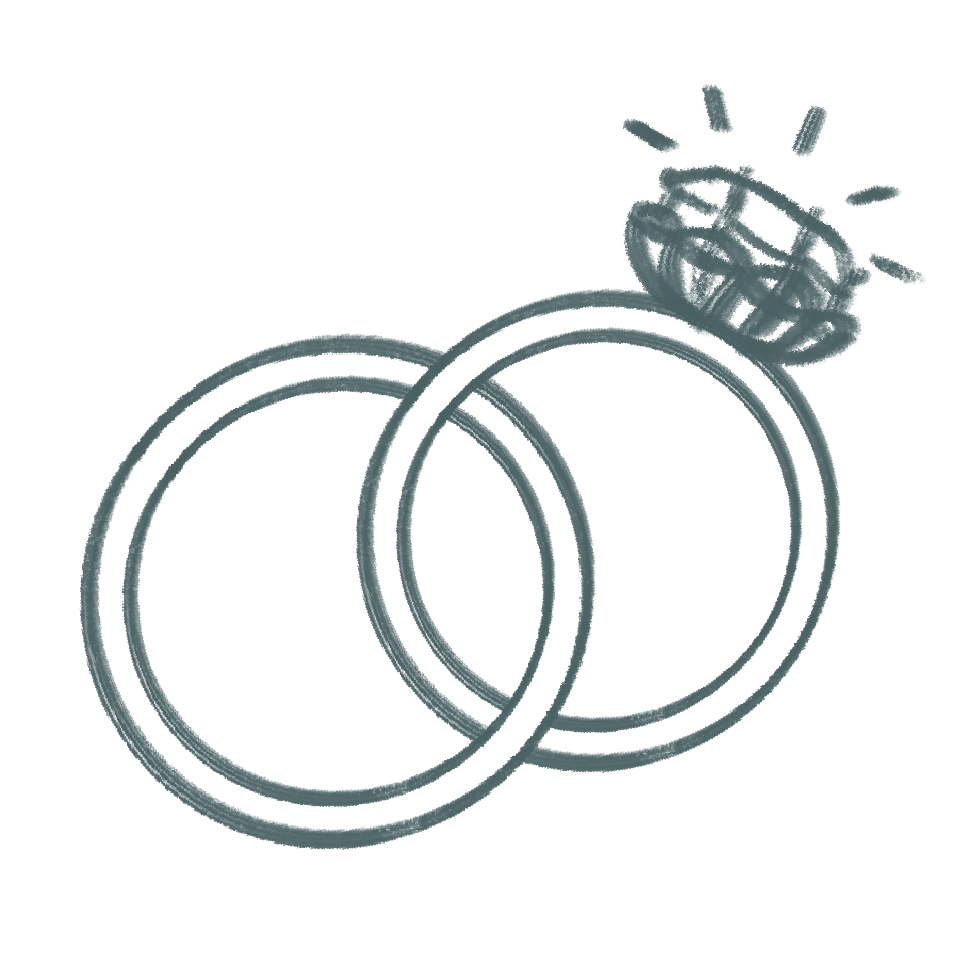
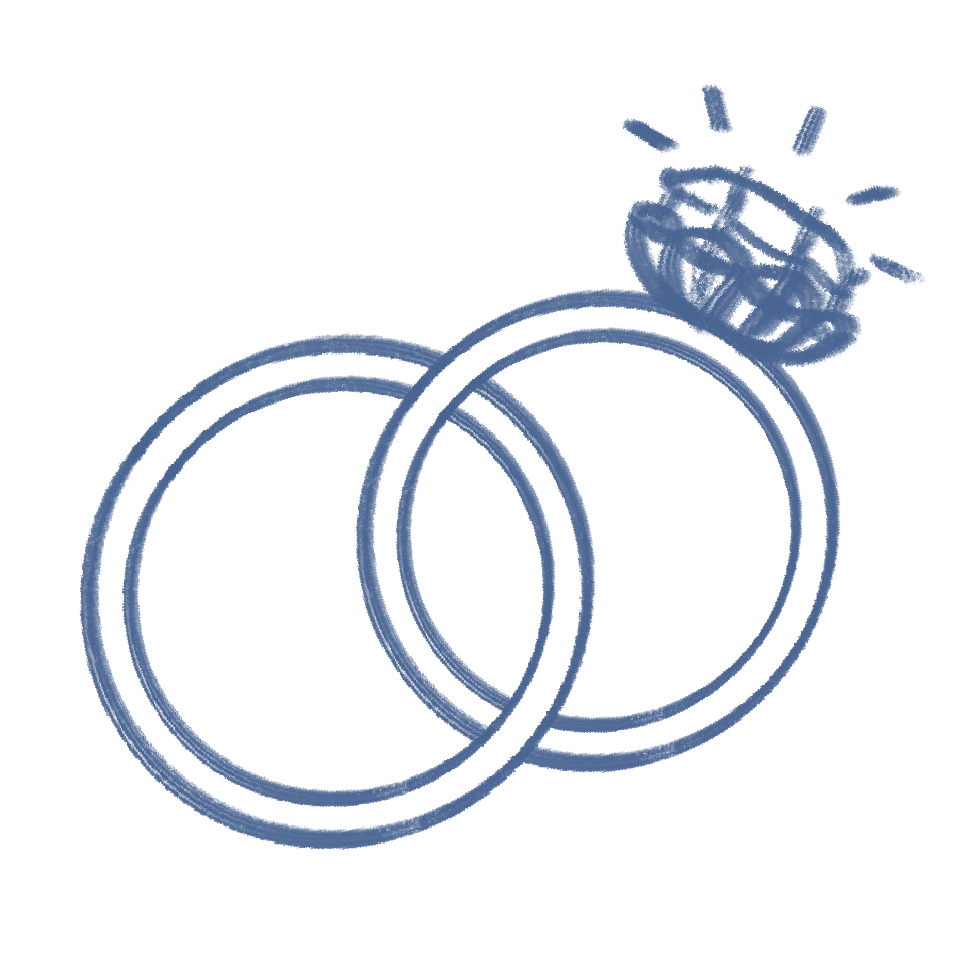
Tune colors

diff --git a/src/constants.js b/src/constants.js
@@ -1,6 +1,6 @@
-export const accentColor = "#668493";
+export const accentColor = "#6185bb";
 export const accentColorLighter = "#d1bfbb";
-export const accentColorTitle = "#e6c089ff";
+export const accentColorTitle = "#d79484";
 export const accentColorBlue = "#627d96";
 export const accentColorOffWhite = "#fffdfa";
 export const mobileBreakpoint = "768px";
